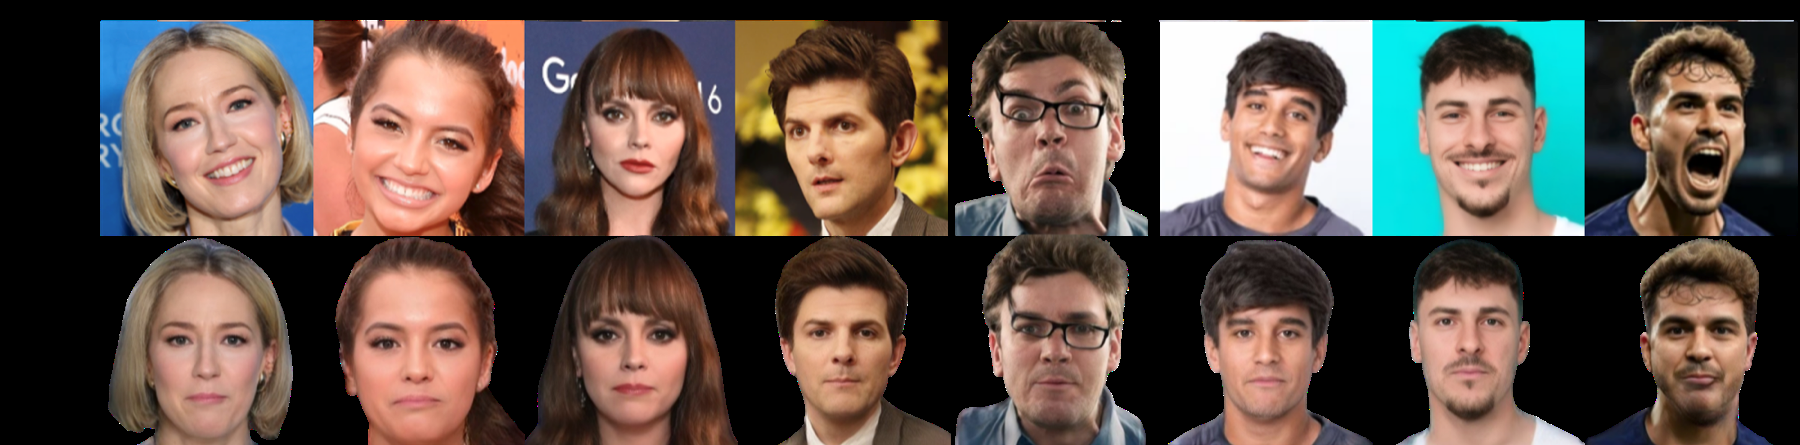
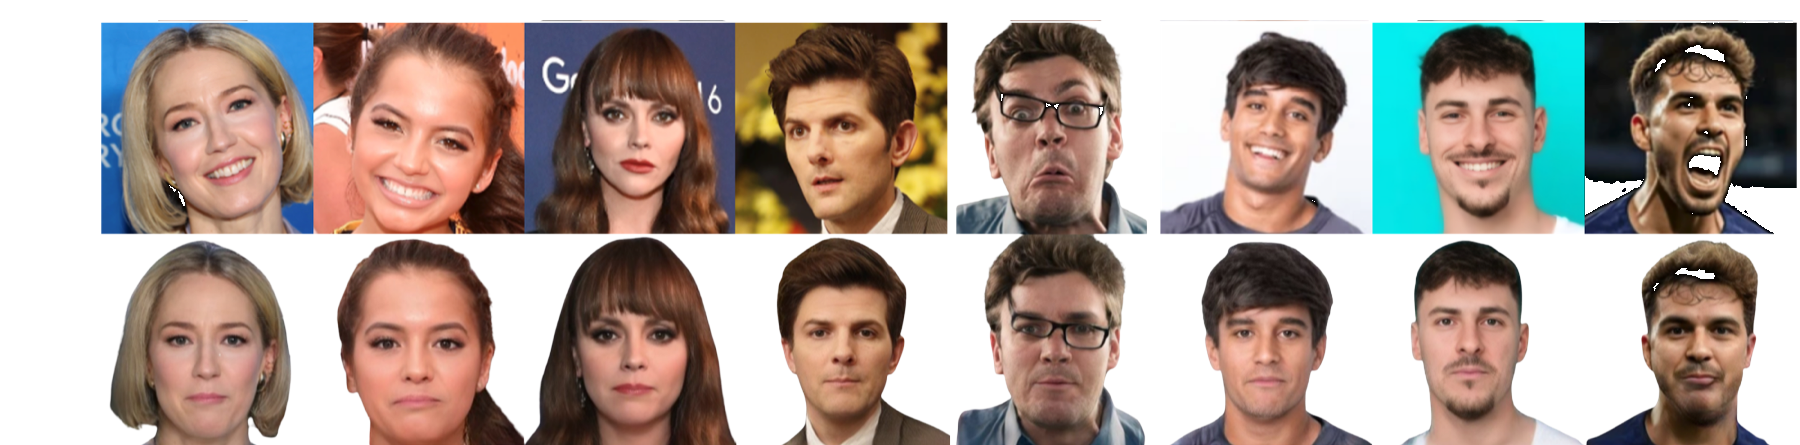
Remove black background from expression removal slides

diff --git a/assets/styles.css b/assets/styles.css
@@ -172,7 +172,7 @@ body {
 }
 
 .expression-removal-slide .media-shell {
-  background: #000000;
+  background: transparent;
 }
 
 .expression-removal-arrow {
